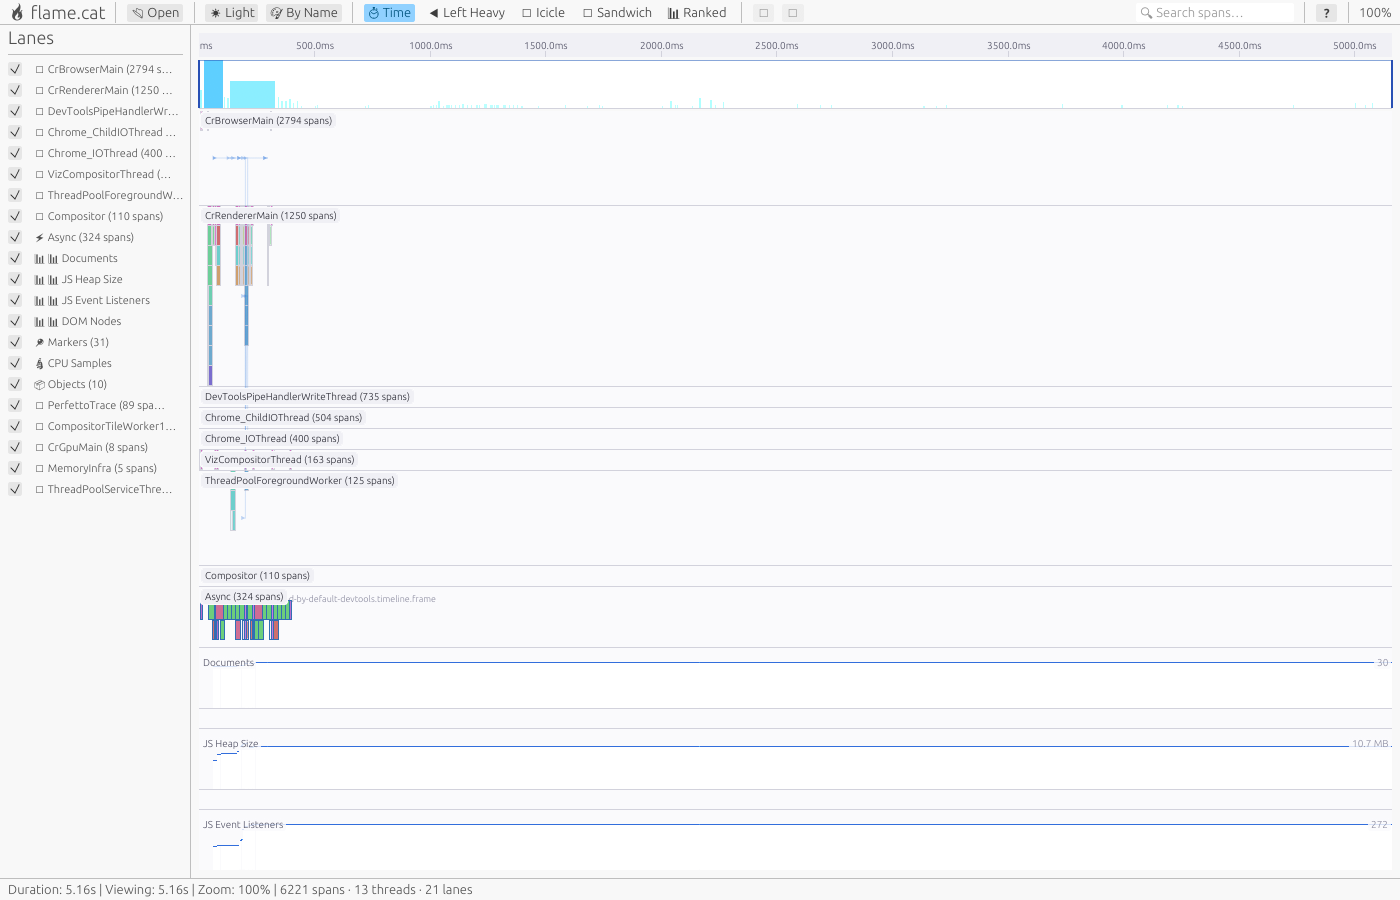
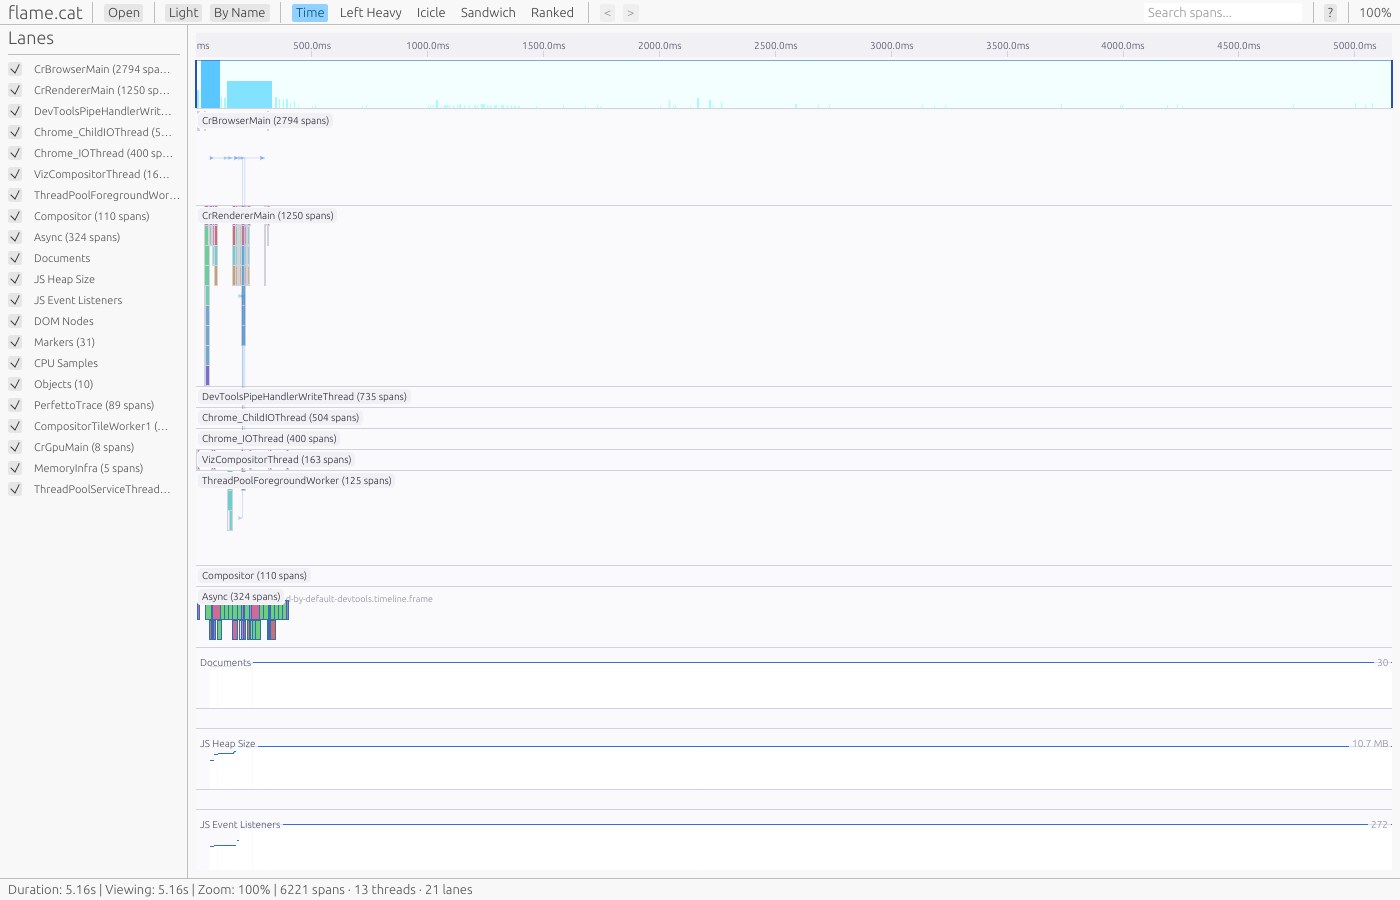
polish: replace broken emoji with text, clean up sidebar
- Replace all emoji icons with ASCII text (egui font doesn't render emoji)
  Toolbar: flame.cat, Open, Dark/Light, By Name/By Depth, Time/Left Heavy/etc
  Context menu: Copy Name, Copy Timing, Zoom to Span, Find Similar
  Sidebar: removed T/C/A/M/S/F/O prefixes entirely — names are descriptive enough
- Remove emoji from counter lane names (was '📊 Documents' → 'Documents')
- Boost minimap viewport overlay alpha (25→50) for visibility
- Darken minimap background for better contrast
- Retake all screenshots with clean rendering

diff --git a/crates/ui/src/app.rs b/crates/ui/src/app.rs
@@ -325,7 +325,7 @@ impl FlameApp {
         for (i, counter) in profile.counters.iter().enumerate() {
             self.lanes.push(LaneState {
                 kind: LaneKind::Counter(i),
-                name: format!("📊 {}", counter.name),
+                name: counter.name.to_string(),
                 height: 80.0,
                 visible: true,
                 span_count: counter.samples.len(),
@@ -928,10 +928,10 @@ impl FlameApp {
         // Top toolbar
         egui::TopBottomPanel::top("toolbar").show(ctx, |ui| {
             ui.horizontal(|ui| {
-                ui.heading("🔥 flame.cat");
+                ui.heading("flame.cat");
                 ui.separator();
 
-                if ui.button("📂 Open").clicked() {
+                if ui.button("Open").clicked() {
                     #[cfg(not(target_arch = "wasm32"))]
                     {
                         if let Some(path) = rfd::FileDialog::new()
@@ -964,8 +964,8 @@ impl FlameApp {
                 ui.separator();
 
                 let theme_label = match self.theme_mode {
-                    ThemeMode::Dark => "🌙 Dark",
-                    ThemeMode::Light => "☀ Light",
+                    ThemeMode::Dark => "Dark",
+                    ThemeMode::Light => "Light",
                 };
                 if ui.button(theme_label).clicked() {
                     self.theme_mode = match self.theme_mode {
@@ -983,8 +983,8 @@ impl FlameApp {
 
                 // Color mode toggle
                 let color_label = match self.color_mode {
-                    renderer::ColorMode::ByName => "🎨 By Name",
-                    renderer::ColorMode::Theme => "🎨 By Depth",
+                    renderer::ColorMode::ByName => "By Name",
+                    renderer::ColorMode::Theme => "By Depth",
                 };
                 if ui
                     .button(color_label)
@@ -1002,11 +1002,11 @@ impl FlameApp {
                 // View type tabs
                 if self.session.is_some() {
                     let views = [
-                        (crate::ViewType::TimeOrder, "⏱ Time"),
-                        (crate::ViewType::LeftHeavy, "◀ Left Heavy"),
-                        (crate::ViewType::Icicle, "▼ Icicle"),
-                        (crate::ViewType::Sandwich, "🥪 Sandwich"),
-                        (crate::ViewType::Ranked, "📊 Ranked"),
+                        (crate::ViewType::TimeOrder, "Time"),
+                        (crate::ViewType::LeftHeavy, "Left Heavy"),
+                        (crate::ViewType::Icicle, "Icicle"),
+                        (crate::ViewType::Sandwich, "Sandwich"),
+                        (crate::ViewType::Ranked, "Ranked"),
                     ];
                     for (vt, label) in views {
                         if ui.selectable_label(self.view_type == vt, label).clicked() {
@@ -1021,7 +1021,7 @@ impl FlameApp {
                     let can_back = self.zoom_history_pos > 0;
                     let can_fwd = self.zoom_history_pos + 1 < self.zoom_history.len();
                     if ui
-                        .add_enabled(can_back, egui::Button::new("◁"))
+                        .add_enabled(can_back, egui::Button::new("<"))
                         .on_hover_text("Back (zoom history)")
                         .clicked()
                     {
@@ -1032,7 +1032,7 @@ impl FlameApp {
                         self.invalidate_commands();
                     }
                     if ui
-                        .add_enabled(can_fwd, egui::Button::new("▷"))
+                        .add_enabled(can_fwd, egui::Button::new(">"))
                         .on_hover_text("Forward (zoom history)")
                         .clicked()
                     {
@@ -1050,7 +1050,7 @@ impl FlameApp {
                     ui.separator();
 
                     if ui
-                        .button("❓")
+                        .button("?")
                         .on_hover_text("Keyboard shortcuts (?)")
                         .clicked()
                     {
@@ -1061,7 +1061,7 @@ impl FlameApp {
                     // Search box
                     let search_response = ui.add(
                         egui::TextEdit::singleline(&mut self.search_query)
-                            .hint_text("🔍 Search spans…")
+                            .hint_text("Search spans...")
                             .desired_width(150.0),
                     );
                     if search_response.changed() {
@@ -1078,9 +1078,9 @@ impl FlameApp {
             ui.horizontal(|ui| {
                 if let Some(err) = self.error.clone() {
                     ui.horizontal(|ui| {
-                        ui.label(egui::RichText::new("🚨").size(12.0));
+                        ui.label(egui::RichText::new("!").strong().size(12.0).color(egui::Color32::RED));
                         ui.colored_label(egui::Color32::RED, &err);
-                        if ui.small_button("✕").on_hover_text("Dismiss").clicked() {
+                        if ui.small_button("x").on_hover_text("Dismiss").clicked() {
                             self.error = None;
                         }
                     });
@@ -1122,9 +1122,9 @@ impl FlameApp {
                 .resizable(true)
                 .show(ctx, |ui| {
                     ui.horizontal(|ui| {
-                        ui.heading("📋 Detail");
+                        ui.heading("Detail");
                         ui.with_layout(egui::Layout::right_to_left(egui::Align::Center), |ui| {
-                            if ui.button("✕").clicked() {
+                            if ui.button("x").clicked() {
                                 self.selected_span = None;
                             }
                         });
@@ -1174,7 +1174,7 @@ impl FlameApp {
                                         if span.parent.is_some() {
                                             ui.horizontal(|ui| {
                                                 ui.label(
-                                                    egui::RichText::new("📍 ")
+                                                    egui::RichText::new("> ")
                                                         .size(11.0)
                                                         .weak(),
                                                 );
@@ -1252,28 +1252,19 @@ impl FlameApp {
                         for idx in 0..lane_count {
                             let lane = &self.lanes[idx];
                             let mut vis = lane.visible;
-                            let icon = match &lane.kind {
-                                LaneKind::Thread(_) => "🧵",
-                                LaneKind::Counter(_) => "📊",
-                                LaneKind::AsyncSpans => "⚡",
-                                LaneKind::Markers => "📍",
-                                LaneKind::CpuSamples => "🔬",
-                                LaneKind::FrameTrack => "🎞",
-                                LaneKind::ObjectTrack => "📦",
-                            };
                             let full_name = lane.name.clone();
                             ui.horizontal(|ui| {
                                 if ui.checkbox(&mut vis, "").changed() {
                                     changed = true;
                                 }
-                                let display_name = if full_name.chars().count() > 22 {
+                                let display_name = if full_name.chars().count() > 24 {
                                     let end = full_name
                                         .char_indices()
-                                        .nth(21)
+                                        .nth(23)
                                         .map_or(full_name.len(), |(i, _)| i);
-                                    format!("{icon} {}…", &full_name[..end])
+                                    format!("{}…", &full_name[..end])
                                 } else {
-                                    format!("{icon} {full_name}")
+                                    full_name.clone()
                                 };
                                 let resp = ui.label(
                                     egui::RichText::new(&display_name).size(11.0).color(if vis {
@@ -1282,7 +1273,7 @@ impl FlameApp {
                                         ui.visuals().weak_text_color()
                                     }),
                                 );
-                                if display_name.len() < full_name.len() + icon.len() + 2 {
+                                if display_name.len() < full_name.len() {
                                     resp.on_hover_text(&full_name);
                                 }
                             });
@@ -1320,7 +1311,7 @@ impl FlameApp {
                 ui.centered_and_justified(|ui| {
                     ui.vertical_centered(|ui| {
                         ui.add_space(ui.available_height() / 4.0);
-                        ui.heading(egui::RichText::new("🔥").size(48.0));
+                        ui.heading(egui::RichText::new("flame.cat").size(32.0).strong());
                         ui.add_space(8.0);
                         ui.heading("flame.cat");
                         ui.add_space(4.0);
@@ -2137,20 +2128,20 @@ impl FlameApp {
                         ui.label(egui::RichText::new(&timing_text).weak().size(11.0));
                     }
                     ui.separator();
-                    if ui.button("📋 Copy Name").clicked() {
+                    if ui.button("Copy Name").clicked() {
                         ui.ctx().copy_text(menu.span_name.clone());
                         self.context_menu = None;
                     }
-                    if ui.button("⏱ Copy Timing").clicked() {
+                    if ui.button("Copy Timing").clicked() {
                         ui.ctx()
                             .copy_text(format!("{}: {}", menu.span_name, timing_text));
                         self.context_menu = None;
                     }
-                    if ui.button("🔍 Zoom to Span").clicked() {
+                    if ui.button("Zoom to Span").clicked() {
                         self.animate_to(menu.zoom_start, menu.zoom_end);
                         self.context_menu = None;
                     }
-                    if ui.button("🔎 Find Similar").clicked() {
+                    if ui.button("Find Similar").clicked() {
                         self.search_query = menu.span_name.clone();
                         self.context_menu = None;
                     }
@@ -2160,7 +2151,7 @@ impl FlameApp {
                             self.context_menu = None;
                         }
                     }
-                    if ui.button("✦ Highlight All").clicked() {
+                    if ui.button("Highlight All").clicked() {
                         self.search_query = menu.span_name.clone();
                         self.context_menu = None;
                     }

diff --git a/crates/ui/src/theme.rs b/crates/ui/src/theme.rs
@@ -66,8 +66,8 @@ fn resolve_dark(token: ThemeToken) -> ResolvedColor {
         ToolbarTabActive => ResolvedColor::rgb(66, 135, 245),
         ToolbarTabHover => ResolvedColor::rgba(255, 255, 255, 20),
 
-        MinimapBackground => ResolvedColor::rgb(25, 25, 32),
-        MinimapViewport => ResolvedColor::rgba(100, 160, 255, 25),
+        MinimapBackground => ResolvedColor::rgb(20, 20, 28),
+        MinimapViewport => ResolvedColor::rgba(100, 160, 255, 50),
         MinimapDensity => ResolvedColor::rgb(100, 170, 255),
         MinimapHandle => ResolvedColor::rgb(180, 200, 255),
 
@@ -130,7 +130,7 @@ fn resolve_light(token: ThemeToken) -> ResolvedColor {
         ToolbarTabHover => ResolvedColor::rgba(0, 0, 0, 10),
 
         MinimapBackground => ResolvedColor::rgb(240, 240, 245),
-        MinimapViewport => ResolvedColor::rgba(50, 110, 220, 30),
+        MinimapViewport => ResolvedColor::rgba(50, 110, 220, 50),
         MinimapDensity => ResolvedColor::rgb(50, 110, 220),
         MinimapHandle => ResolvedColor::rgb(40, 80, 180),
 
